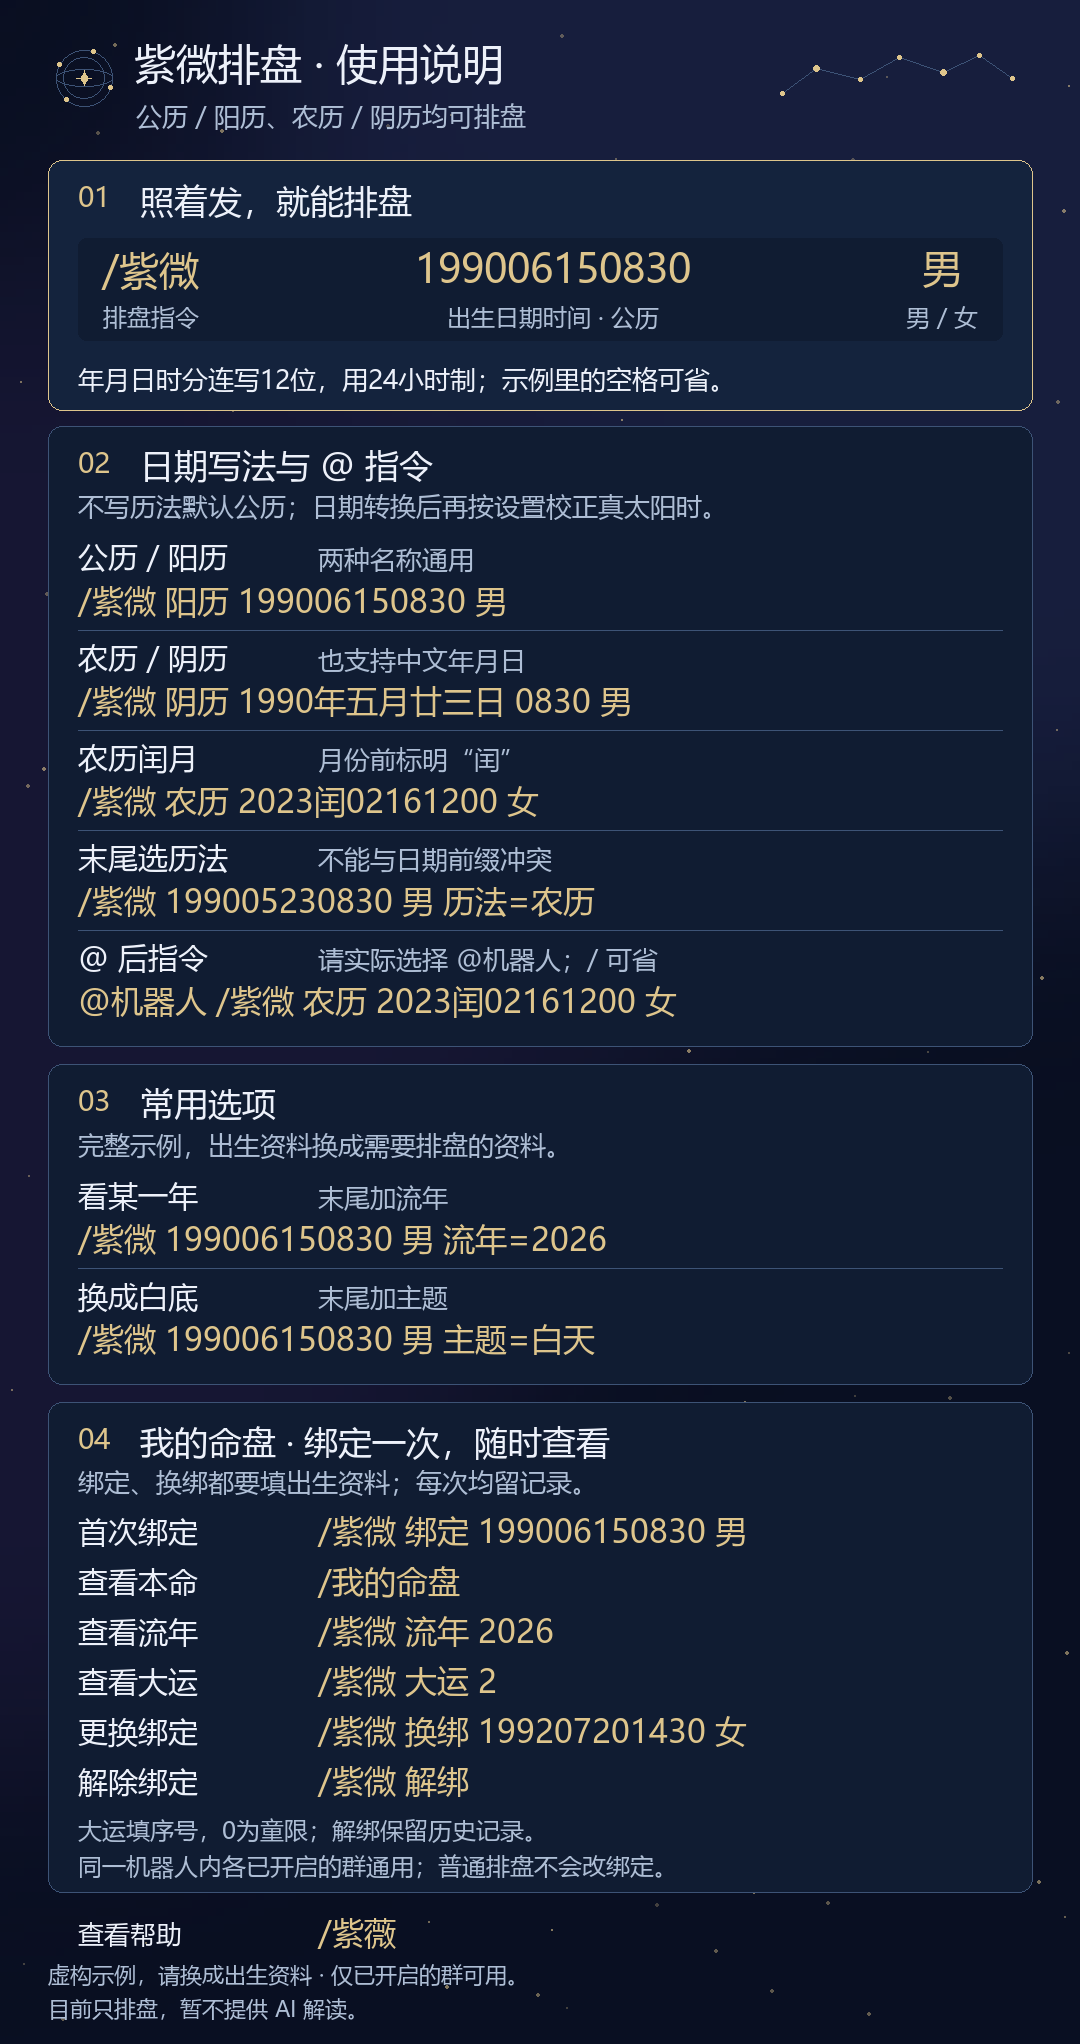
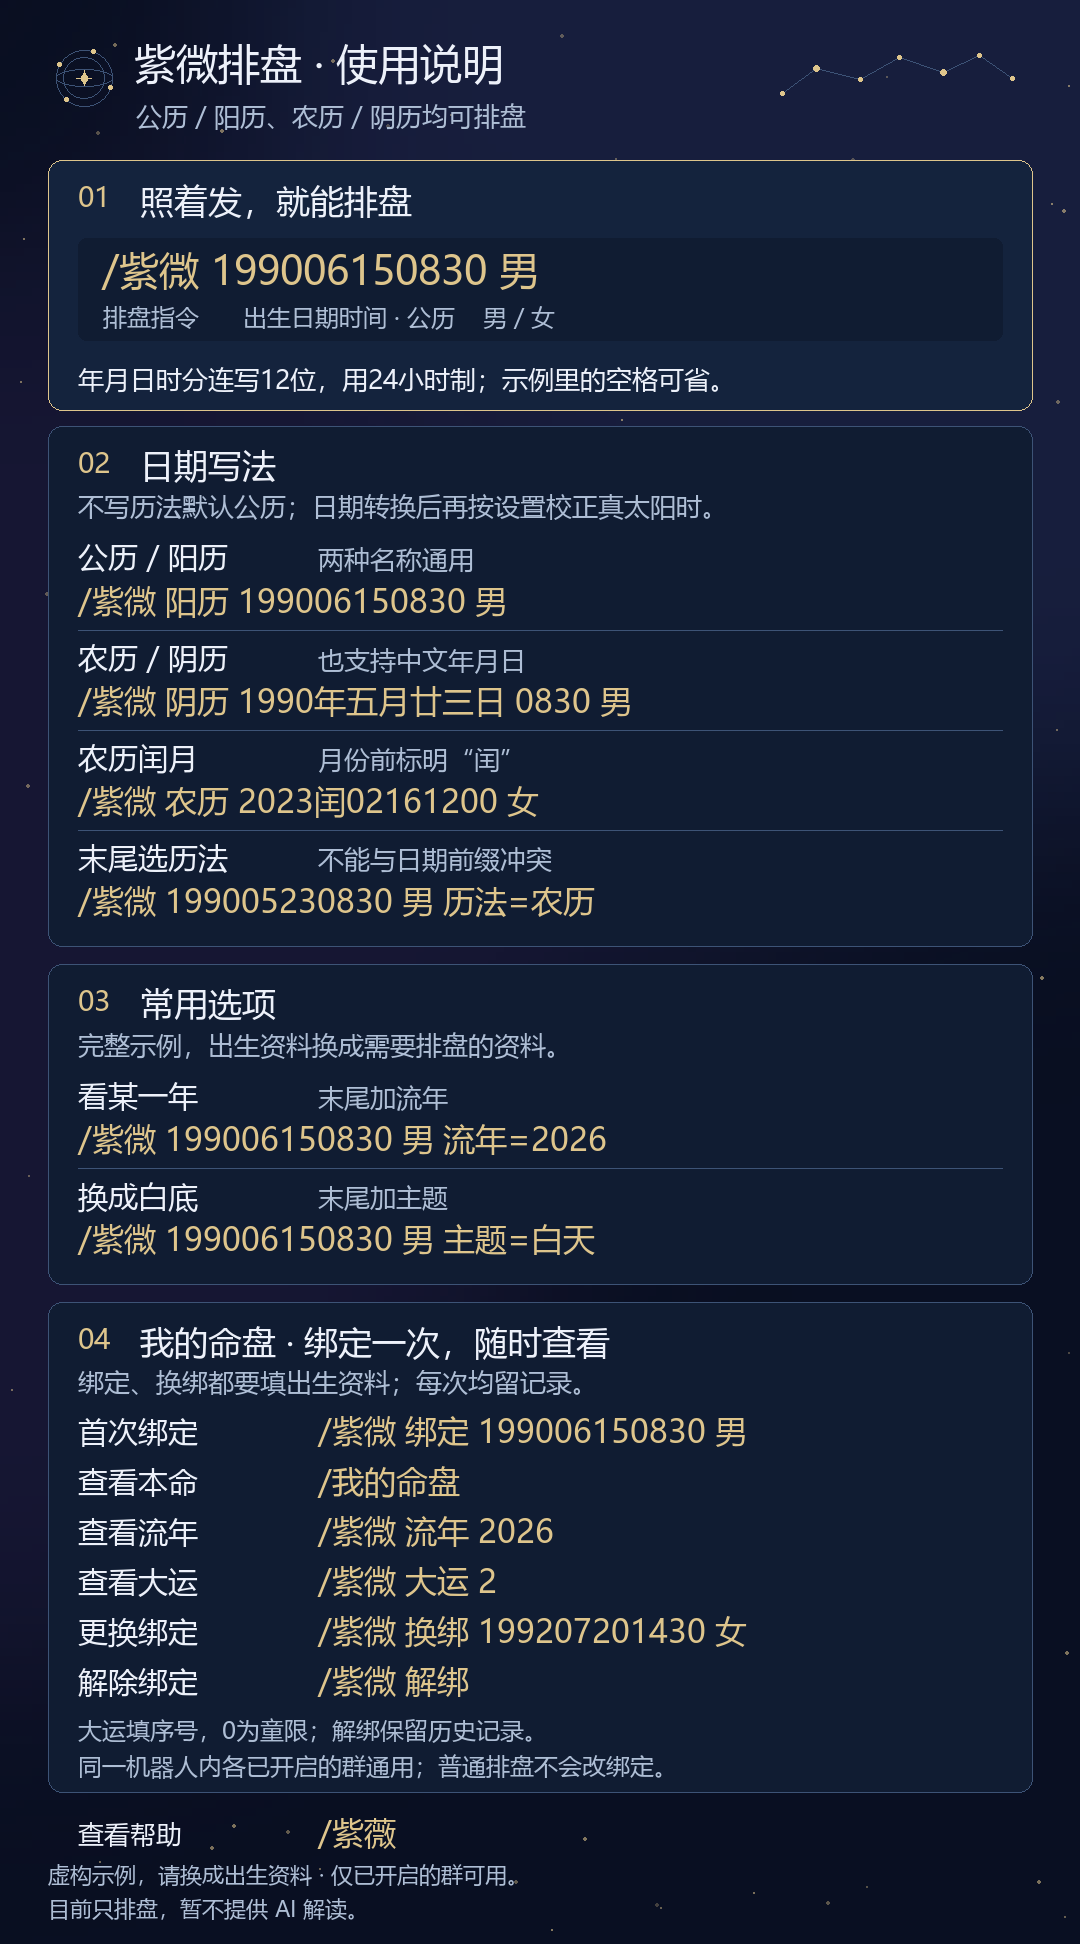
docs: 简化帮助内容并收紧基础指令参数间距
按最新要求从帮助图和文字帮助移除艾特机器人说明，保留四种日期写法。
01 区域按普通单空格连续绘制完整指令，参数说明按实际位置居中，保持原字号和字重。
刷新帮助预览并修订维护要求及使用说明。

验证：1582 项测试、Ruff 格式和检查通过；昼夜各 54 个文字框无重叠或裁切，四条日期示例解析通过，已目视核对。仅本地提交，未推送或部署。

diff --git a/help_renderer.py b/help_renderer.py
@@ -74,28 +74,18 @@ class HelpRenderer:
             outline=p.paper,
             radius=8,
         )
-        # Labels sit under their own field, so beginners can see what to replace.
-        fields = [
-            (
-                value,
-                label,
-                max(
-                    painter.font(40).getlength(value),
-                    painter.font(24).getlength(label),
-                ),
-            )
-            for value, label in HELP_BIRTH_FIELDS
-        ]
-        gap = (content_width - 48 - sum(item[2] for item in fields)) / (len(fields) - 1)
+        # Show a copyable command with ordinary single spaces. Field labels
+        # follow the actual token positions rather than stretching across the card.
         x = left + 24
-        for value, label, field_width in fields:
-            for text, size, y, color in (
-                (value, 40, 252, p.accent),
-                (label, 24, 306, p.muted),
-            ):
-                text_width = painter.font(size).getlength(text)
-                painter.text(text, x + (field_width - text_width) / 2, y, size, color)
-            x += field_width + gap
+        painter.text(
+            " ".join(value for value, _ in HELP_BIRTH_FIELDS), x, 252, 40, p.accent
+        )
+        gap = painter.font(40).getlength(" ")
+        for value, label in HELP_BIRTH_FIELDS:
+            value_width = painter.font(40).getlength(value)
+            label_width = painter.font(24).getlength(label)
+            painter.text(label, x + (value_width - label_width) / 2, 306, 24, p.muted)
+            x += value_width + gap
         painter.text(HELP_BIRTH_NOTE, left, 366, 26, p.ink)
 
         examples(

diff --git a/help_content.py b/help_content.py
@@ -12,14 +12,13 @@ HELP_BIRTH_FIELDS = (
     ),
 )
 HELP_BIRTH_NOTE = "年月日时分连写12位，用24小时制；示例里的空格可省。"
-HELP_COMPATIBILITY_TITLE = "日期写法与 @ 指令"
+HELP_COMPATIBILITY_TITLE = "日期写法"
 HELP_COMPATIBILITY_NOTE = "不写历法默认公历；日期转换后再按设置校正真太阳时。"
 HELP_COMPATIBILITY = (
     ("公历／阳历", "两种名称通用", "/紫微 阳历 199006150830 男"),
     ("农历／阴历", "也支持中文年月日", "/紫微 阴历 1990年五月廿三日 0830 男"),
     ("农历闰月", "月份前标明“闰”", "/紫微 农历 2023闰02161200 女"),
     ("末尾选历法", "不能与日期前缀冲突", "/紫微 199005230830 男 历法=农历"),
-    ("@ 后指令", "请实际选择 @机器人；/ 可省", "@机器人 /紫微 农历 2023闰02161200 女"),
 )
 HELP_OPTIONS = (
     ("看某一年", "末尾加流年", f"/紫微 {DEMO_BIRTH} 流年=2026"),

diff --git a/AGENTS.md b/AGENTS.md
@@ -1,6 +1,6 @@
 # 紫微斗数插件维护
 
-2.5.0 帮助图补充（2026-11-07）：图片须完整列出公历／阳历、阴历中文日期、农历闰月、末尾 `历法=` 和真实 @机器人 后附带指令五种兼容写法，不能仅留在文字帮助或页脚提示。保持常规字重、原字号及个人命盘操作，按示例数量顺延后续区块与页脚，避免重叠或裁切。
+2.5.0 帮助图补充（2026-11-07，按最新要求修订）：帮助图及文字帮助不提及 @机器人；图片完整列出公历／阳历、阴历中文日期、农历闰月、末尾 `历法=` 四种日期写法。01 区域按普通单空格连续显示指令，参数说明随实际字段位置居中，不将参数拉伸分布到整行。保持常规字重、原字号及个人命盘操作，按示例数量顺延后续区块与页脚，避免重叠或裁切。此前要求展示 @ 示例已被本条取代。
 
 2.5.0（2026-11-07）补全公历／阳历、农历／阴历输入：数字年月日、农历中文月日、历法前缀连写及末尾 `历法=`；冲突历法、无效月日及闰月必须拒绝。先把农历转换成公历钟表日期，再沿用经度、时区、真太阳时和子时规则，不因输入历法改变校正开关；旧盘不重算。@ 后指令从真实前置 At 本机器人与后续 Plain 消息段提取，允许一个可选斜杠；须保留框架唤醒检查，与标准命令入口互斥，不修改消息、真实用户身份、群授权或绑定事务，不解析手打 @／CQ 字串、引用正文及聊天中的命令片段。
 

diff --git a/VERIFICATION.md b/VERIFICATION.md
@@ -1,5 +1,12 @@
 # 本地验证记录
 
+## 2.5.0 帮助内容与基础指令间距修订（2026-11-07）
+
+- 按最新要求，从帮助图标题、示例及文字帮助移除 @机器人 说明；日期区保留公历／阳历、阴历中文日期、农历闰月、末尾 `历法=` 四类完整示例。
+- 01 区域以普通单空格绘制整条指令，参数说明按实际字段位置居中；沿用 40 像素指令和 24 像素说明的常规字重。原先将参数均匀拉伸到整行的排版已移除。
+- 昼夜帮助图均为 **1080×1944**，各 **54 个文字框**无重叠、无裁切且保留页边距；确认图片与文字帮助均无 @ 文案，基础指令为一条连续文本，四种日期示例均可解析。已目视核对并刷新可分发帮助图，六张命盘预览重新生成后字节未变。
+- 全量 **1,582 项测试通过**（74.74 秒），98 个 Python 文件通过 Ruff 格式及静态检查。版本保持 2.5.0；未推送或部署。
+
 ## 2.5.0 补充：帮助图展示兼容指令（2026-11-07）
 
 - 帮助图新增“日期写法与 @ 指令”，完整展示阳历数字日期、阴历中文日期、农历闰月、末尾 `历法=` 及真实 @机器人 后附带指令五类示例；与文字帮助共用示例，文字版移除重复条目。常用流年／白底选项、个人命盘六项操作和简短帮助入口继续保留。
